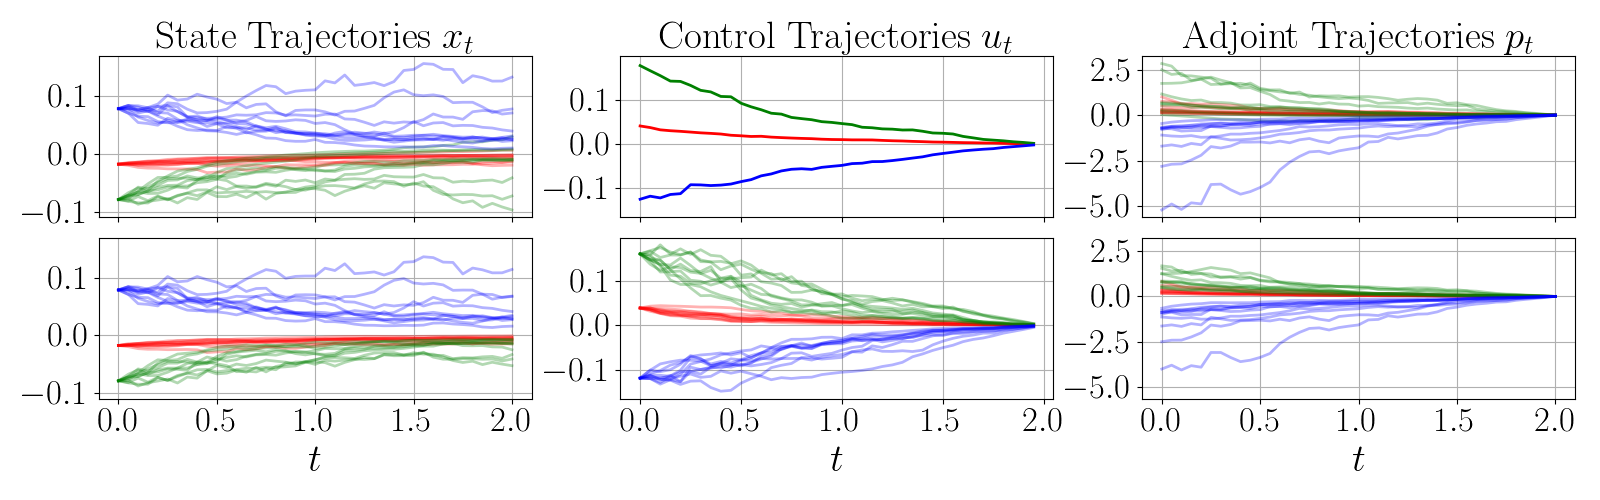
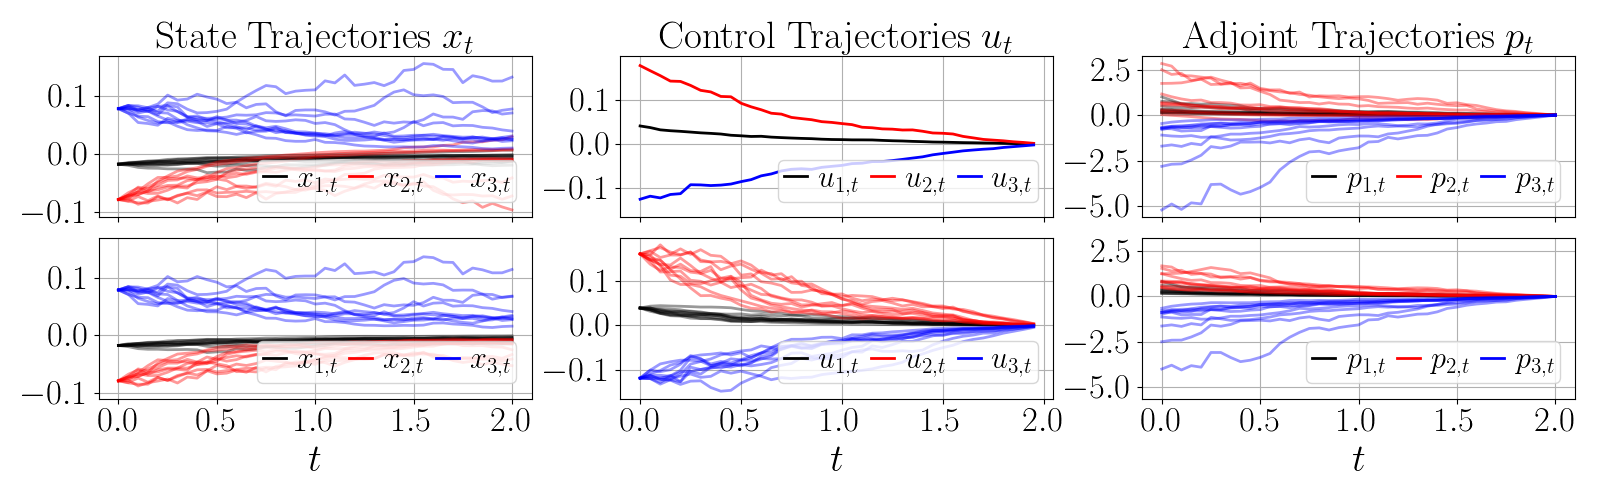
Improved plots.

diff --git a/scripts/compare_openloop_feedback.py b/scripts/compare_openloop_feedback.py
@@ -115,7 +115,10 @@ def plot():
 
     times_states = jnp.repeat(times[np.newaxis], repeats=M, axis=0)
     times_controls = times[:-1]
-    colors = ["r", "g", "b"]
+    # colors = ["r", "g", "b"]
+    # colors = ["k", "b", "r"]
+    # colors = ["r", "#FFC20A", "b"]
+    colors = ["k", "r", "b"]
     solvers = ["openloop", "feedback"]
 
     # feedback u = K x
@@ -137,7 +140,7 @@ def plot():
                 times_states.T,
                 states[..., dim].T,
                 c=colors[dim],
-                alpha=0.3,
+                alpha=0.4,
                 linewidth=2,
             )
         if solver_i == 0:
@@ -148,7 +151,7 @@ def plot():
             if solver_i == 0:
                 alpha = 1
             elif solver_i == 1:
-                alpha = 0.3
+                alpha = 0.4
 
             plt.plot(
                 times_controls,
@@ -168,7 +171,7 @@ def plot():
                 times_states.T,
                 costates[..., dim].T,
                 c=colors[dim],
-                alpha=0.3,
+                alpha=0.4,
                 linewidth=2,
             )
         if solver_i == 0:
@@ -196,10 +199,33 @@ def plot():
             plt.subplot(2, 3, 3 * solver_i + 1 + plot_i)
             plt.xlim(xlims[variable])
             plt.ylim(ylims[variable])
+            # legend
+            for dim in range(n_x):
+                if variable == "states":
+                    xs, ys = times_states[0, -2:].T, states[..., dim][0, -2:].T + 1e6
+                    label = r"$x_{" + f"{dim+1}" + ",t}$"
+                elif variable == "controls":
+                    if solver == "openloop":
+                        xs, ys = times_controls[-2:], controls[..., dim][-2:].T + 1e6
+                    elif solver == "feedback":
+                        xs, ys = times_controls[-2:], controls[..., dim][0, -2:].T + 1e6
+                    label = r"$u_{" + f"{dim+1}" + ",t}$"
+                elif variable == "costates":
+                    xs, ys = times_states[0, -2:].T, costates[..., dim][0, -2:].T + 1e6
+                    label = r"$p_{" + f"{dim+1}" + ",t}$"
+                plt.plot(xs.T, ys.T, c=colors[dim], alpha=1, linewidth=2, label=label)
+            plt.legend(
+                fontsize=22,
+                handlelength=0.75,
+                loc="lower right",
+                ncol=3,
+                columnspacing=0.4,
+                handletextpad=0.35,
+                borderpad=0.2
+            )
     plt.tight_layout()
     plt.subplots_adjust(wspace=0.205, hspace=0.126)
     plt.savefig("results/openloop_feedback.png")
-    # plt.show()
 
 
 if __name__ == "__main__":

diff --git a/scripts/compare_hyperparameters.py b/scripts/compare_hyperparameters.py
@@ -212,6 +212,24 @@ def plot():
     plt.tight_layout()
     plt.savefig("results/comparison.png")
 
+    for horizon_i, N in enumerate(horizons):
+        # msg = [f"{1e3*computation_times[solver][j, horizon_i]}" for j in range(len(sample_sizes))]
+        msg = [computation_times["sqp"][j, horizon_i]/computation_times["pmp"][j, horizon_i] for j in range(len(sample_sizes))]
+        # msg = [1e3*computation_times[solver][j, horizon_i] for j in range(len(sample_sizes))]
+        msg = [round(m, 1) for m in msg]
+        msg = [f"${m}$" for m in msg]
+        msg = ' & '.join([m for m in msg])
+        print("$N =", N, "$ &", msg)
+
+    for horizon_i, N in enumerate(horizons):
+        msg = [computation_times["sqp"][j, horizon_i] for j in range(len(sample_sizes))]
+        msg2 = [computation_times["pmp"][j, horizon_i] for j in range(len(sample_sizes))]
+        msg = [round(1e3 * m) for m in msg]
+        msg2 = [round(1e3 * m) for m in msg2]
+        msg = [f"${m} / {m2}$" for m, m2 in zip(msg, msg2)]
+        msg = ' & '.join([m for m in msg])
+        print("$N =", N, "$ &", msg)
+
     speedups = np.zeros((len(sample_sizes), len(horizons)))
     for horizon_i in range(len(horizons)):
         for sample_size_i in range(len(sample_sizes)):
@@ -269,7 +287,7 @@ def plot():
     plt.grid(which="major", alpha=1.0, linestyle=":")
     plt.tight_layout()
     plt.savefig("results/sample_sizes_sweep.png")
-
+    plt.show()
 
 if __name__ == "__main__":
     parser = argparse.ArgumentParser()
